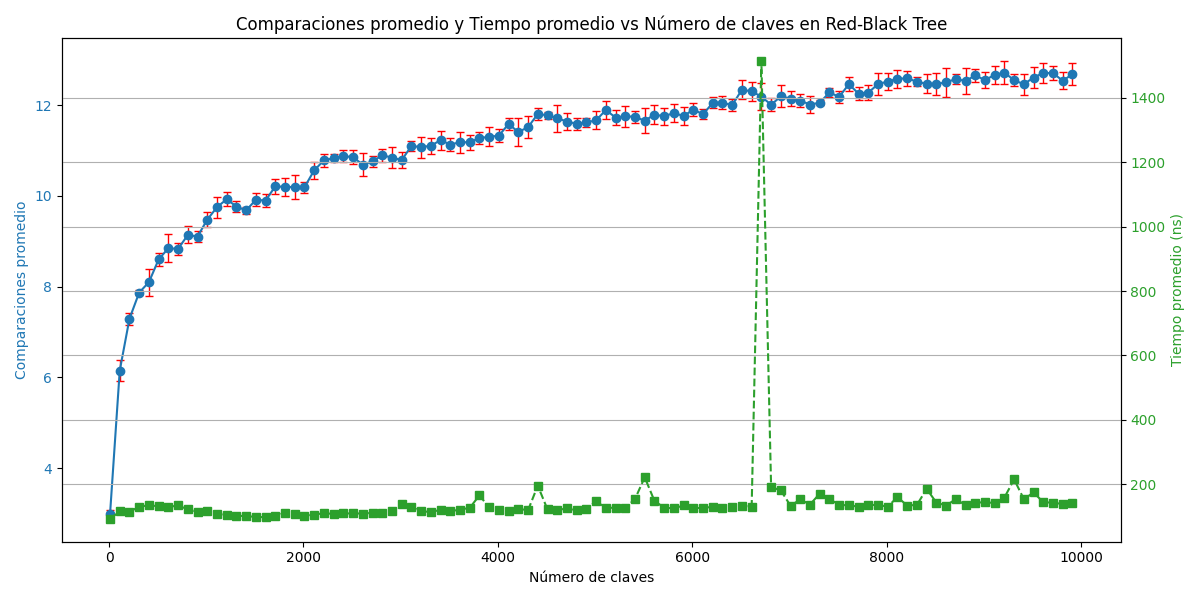
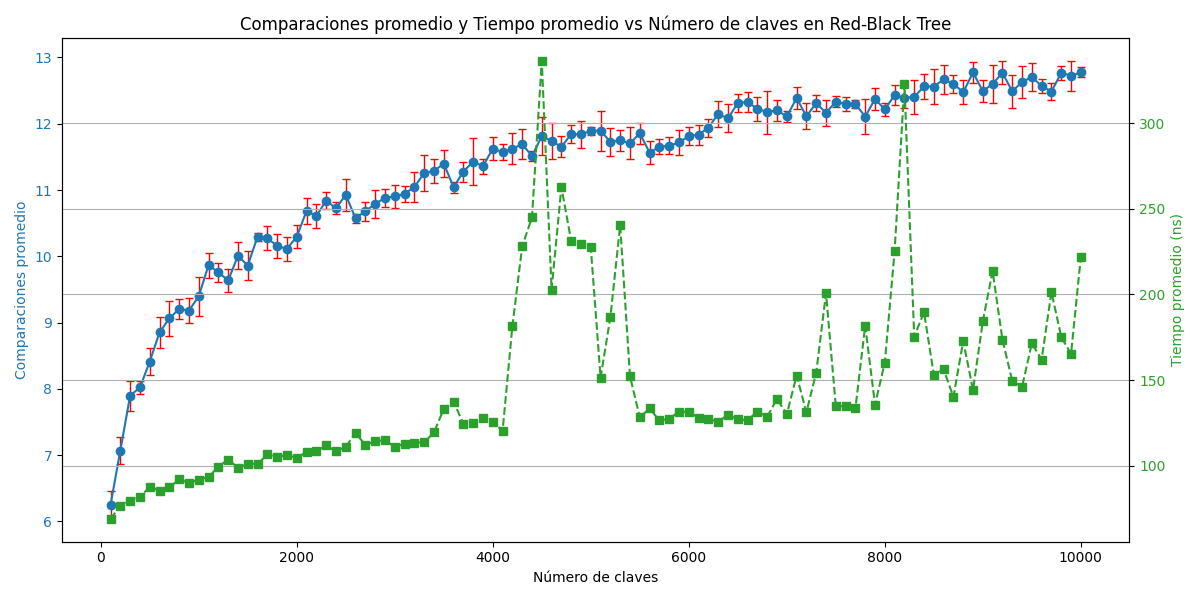
Actualizacion en RB Tree.

diff --git a/Unidad 1/Red Black Tree/mainprueba.cpp b/Unidad 1/Red Black Tree/mainprueba.cpp
@@ -16,7 +16,7 @@ int main() {
     std::srand(std::time(0));
 
     const int num_experimentos = 5;
-    for (int n = 10; n <= 10000; n += 100) {
+    for (int n = 100; n <= 10000; n += 100) {
         std::vector<double> comparaciones_acumuladas;
         std::vector<double> tiempos_acumulados;
 
